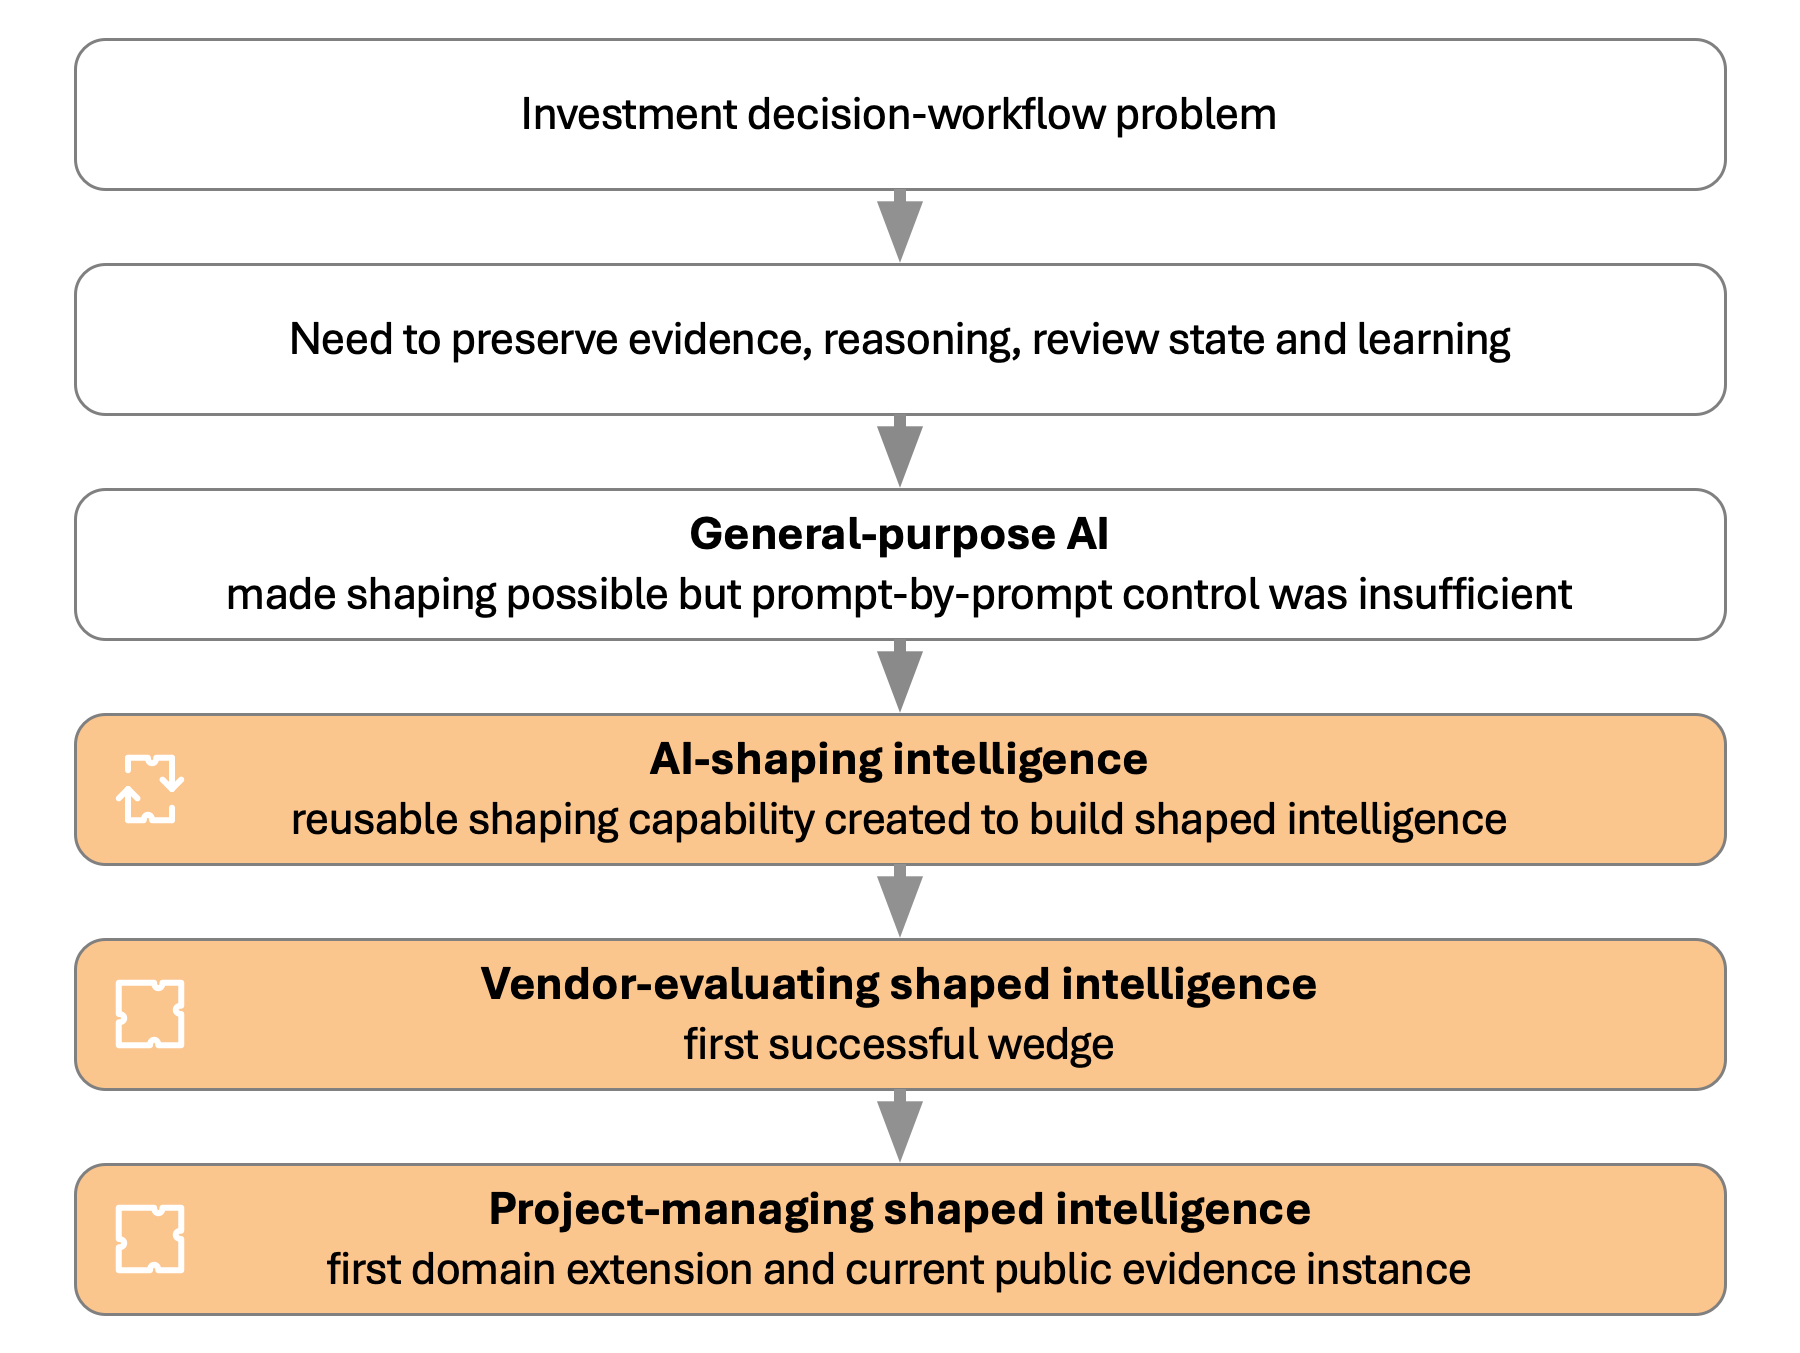
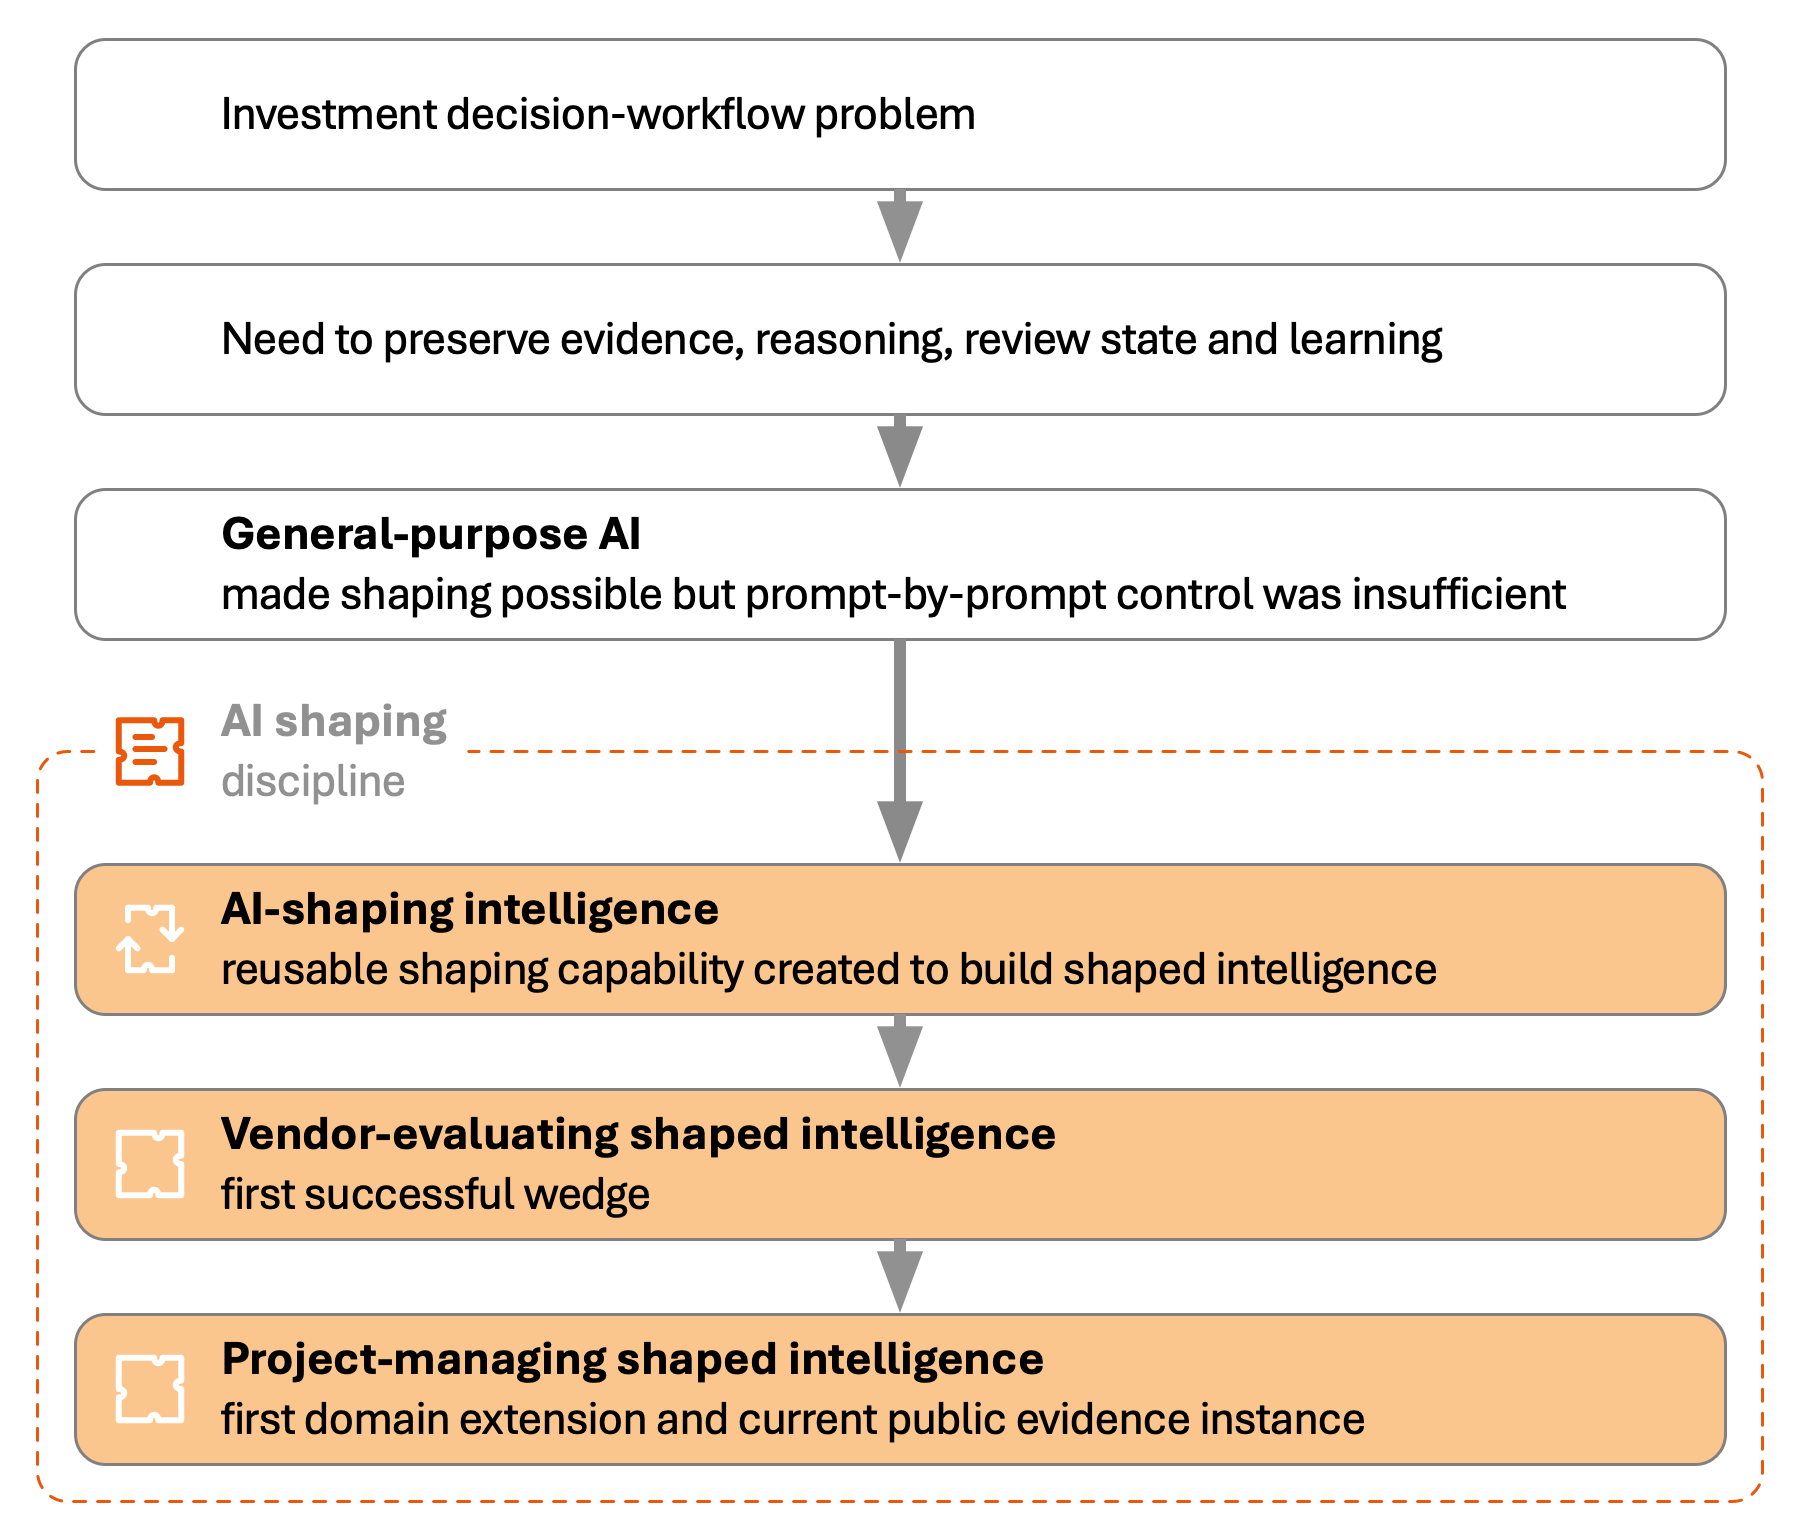
Harmonise terminology, card breakpoints and about diagram

diff --git a/about/index.html b/about/index.html
@@ -42,7 +42,7 @@
       "https://www.linkedin.com/in/kurnikwok"
     ]
   },
-  "dateModified": "2026-07-11T14:02:57+10:00"
+  "dateModified": "2026-07-11T15:04:46+10:00"
 }</script>
 <script type="application/ld+json">{
   "@context": "https://schema.org",
@@ -99,7 +99,7 @@
 <section class="section card reader-note">
 <span class="badge">Credibility shortcut</span>
 <h2>Why this development context matters</h2>
-<p>The work sits at the intersection of IT support, project delivery, product ownership, software development and <a href="/operating-model-design/">operating-model design</a>. That matters because AI shaping is not presented as a generic prompting trick; it is framed as a work-system discipline for carrying domain-practice standards, subject-context reasoning, review state and resumption under human authority.</p>
+<p>The work sits at the intersection of IT support, project delivery, product ownership, software development and <a href="/operating-model-design/">operating-model design</a>. That matters because AI shaping is not presented as a generic prompting trick; it is framed as an operating-model discipline for carrying domain-practice standards, subject-context reasoning, review state and resumption under human authority.</p>
 <p>The <a href="/public-evaluation-map/">public-stage route</a> and <a href="/papers/">papers</a> are therefore structured to show the category, the evidence boundary and the protected-stage route without exposing implementation-level material.</p>
 </section>
 <section class="section grid two">
@@ -118,12 +118,12 @@
 <p>The work began with a practical investment decision-workflow problem: how to preserve why investment decisions were made, what was known at the time, what constraints applied, what changed afterwards and what should improve next time. The system was built around governed decision-making, evidence-linked reasoning, reviewable accountability and learning over time.</p>
 <p>As general-purpose AI became more useful in the development process, the challenge changed. Better prompts helped, but prompt-by-prompt control still left too much recurring work with the person.</p>
 <p>The practical need became a reusable pattern that AI could help build, refine and run under human direction. That is the shaping mechanism: AI is used not only to produce outputs, but also to improve the structured work basis that future AI work uses.</p>
-<p>That development path produced the <span class="icon-label icon-orange"><span aria-hidden="true" class="icon-cue" style="--icon-url: url('/assets/icons/ai-shaping-icon-ai-shaping-discipline.svg');"></span><a href="/ai-shaping/">AI shaping</a></span> framework, including <span class="icon-label icon-orange"><span aria-hidden="true" class="icon-cue" style="--icon-url: url('/assets/icons/ai-shaping-icon-ai-shaping-intelligence.svg');"></span><a href="/ai-shaping-intelligence/">AI-shaping intelligence</a></span> and <span class="icon-label icon-orange"><span aria-hidden="true" class="icon-cue" style="--icon-url: url('/assets/icons/ai-shaping-icon-shaped-intelligence.svg');"></span><a href="/shaped-intelligence/">shaped intelligence</a></span>. AI-shaping intelligence is the reusable shaping capability that combines self-shaping capability and domain-shaping capability: it builds, improves and renews the shaping pattern, and uses that pattern to turn broad AI capability into domain-facing shaped intelligence. Shaped intelligence is the reusable work capability that carries more of a defined recurring work burden under human direction.</p>
+<p>That development path produced <span class="icon-label icon-orange"><span aria-hidden="true" class="icon-cue" style="--icon-url: url('/assets/icons/ai-shaping-icon-ai-shaping-discipline.svg');"></span><a href="/ai-shaping/">AI shaping</a></span> as an operating-model discipline, including <span class="icon-label icon-orange"><span aria-hidden="true" class="icon-cue" style="--icon-url: url('/assets/icons/ai-shaping-icon-ai-shaping-intelligence.svg');"></span><a href="/ai-shaping-intelligence/">AI-shaping intelligence</a></span> and <span class="icon-label icon-orange"><span aria-hidden="true" class="icon-cue" style="--icon-url: url('/assets/icons/ai-shaping-icon-shaped-intelligence.svg');"></span><a href="/shaped-intelligence/">shaped intelligence</a></span>. AI-shaping intelligence is the reusable shaping capability that combines self-shaping capability and domain-shaping capability: it builds, improves and renews the shaping pattern, and uses that pattern to turn broad AI capability into domain-facing shaped intelligence. Shaped intelligence is the reusable work capability that carries more of a defined recurring work burden under human direction.</p>
 </section>
 <section class="section">
 <figure class="figure-card">
-<img alt="Diagram showing the development path from an investment decision-workflow problem to AI-shaping intelligence, vendor-evaluating shaped intelligence and project-managing shaped intelligence." decoding="async" height="1353" loading="lazy" src="/assets/images/ai-shaping-development-path-diagram.png" width="1800"/>
-<figcaption>Simplified development path from the original decision-workflow problem to AI-shaping intelligence, then to the first shaped-intelligence wedge and the current public evidence instance. The diagram shows the development path, not the full internal self-shaping and domain-shaping capability surfaces.</figcaption>
+<img alt="Diagram showing the development path from an investment decision-workflow problem to AI-shaping intelligence, vendor-evaluating shaped intelligence and project-managing shaped intelligence." decoding="async" height="1539" loading="lazy" src="/assets/images/ai-shaping-development-path-diagram.png" width="1800"/>
+<figcaption>Development path from an investment decision-workflow problem to AI-shaping intelligence, the first vendor-evaluating shaped-intelligence wedge and the current project-managing shaped-intelligence evidence instance. The dashed boundary marks the AI-shaping discipline; the diagram is public orientation, not implementation guidance.</figcaption>
 </figure>
 </section>
 <section class="section card">

diff --git a/assets/css/site.css b/assets/css/site.css
@@ -720,11 +720,13 @@ summary { cursor: pointer; font-weight: 800; color: var(--accent); }
 @media (max-width: 1040px) {
   .route-card-grid { grid-template-columns: repeat(2, minmax(0, 1fr)); }
 }
+@media (max-width: 820px) {
+  .comparison-strip,
+  .mini-steps { grid-template-columns: 1fr; }
+}
 @media (max-width: 920px) {
   .route-strip,
   .route-strip.compact,
-  .comparison-strip,
-  .mini-steps,
   .checklist-grid,
   .route-card-grid { grid-template-columns: 1fr; }
 }
@@ -891,7 +893,7 @@ summary { cursor: pointer; font-weight: 800; color: var(--accent); }
 .public-stage-note {
   border-style: dashed;
 }
-@media (max-width: 920px) {
+@media (max-width: 820px) {
   .layer-grid { grid-template-columns: 1fr; }
 }
 /* Reference-page polish: grouped glossary and FAQ sections. */
@@ -966,7 +968,7 @@ summary { cursor: pointer; font-weight: 800; color: var(--accent); }
   background: color-mix(in srgb, var(--surface-strong) 82%, var(--accent-soft) 18%);
   border-color: color-mix(in srgb, var(--line) 52%, var(--accent) 48%);
 }
-@media (max-width: 920px) {
+@media (max-width: 820px) {
   .reading-sequence-grid,
   .reading-sequence-grid.reading-sequence-two { grid-template-columns: 1fr; }
 }

diff --git a/operating-model-design/index.html b/operating-model-design/index.html
@@ -30,7 +30,7 @@
   "name": "Operating-model design",
   "description": "Operating-model design arranges boundaries, review controls, domain fit and resumability for AI shaping under human direction.",
   "url": "https://kurnikwok.com/operating-model-design/",
-  "dateModified": "2026-07-11T14:02:57+10:00"
+  "dateModified": "2026-07-11T15:04:46+10:00"
 }</script>
 <script type="application/ld+json">{
   "@context": "https://schema.org",
@@ -80,7 +80,7 @@
 <div class="wrap page"><div class="breadcrumbs"><a href="/">Home</a> / Operating-model design</div><section class="hero">
 <div class="eyebrow">Strategic concept page</div>
 <h1>Operating-model design makes AI work practice-guided, subject-aware and resumable</h1>
-<p class="lead">Operating-model design is the work-system discipline behind AI shaping. It arranges boundaries, review controls, domain fit, subject context and resumability so broad AI capability can become productive AI work under human direction.</p>
+<p class="lead">Operating-model design is the work-system lens for AI shaping. It arranges boundaries, review controls, domain fit, subject context and resumability so broad AI capability can become productive AI work under human direction.</p>
 </section><figure class="figure-card hero-diagram">
 <img alt="Operating-model design diagram showing human direction, AI shaping, fragmented inputs, general-purpose AI, AI-shaping intelligence, shaped intelligence and productive AI work inside a work-system frame with boundaries, review controls, domain fit, subject context and resumability." decoding="async" fetchpriority="high" height="1521" loading="eager" src="/assets/images/operating-model-design-ai-shaping-work-system-diagram.png" width="1800"/>
 <figcaption>Operating-model design frames the AI-shaping work system: human direction, shaped intelligence, productive AI work and the boundaries, controls and resumability conditions that make the work reviewable.</figcaption>